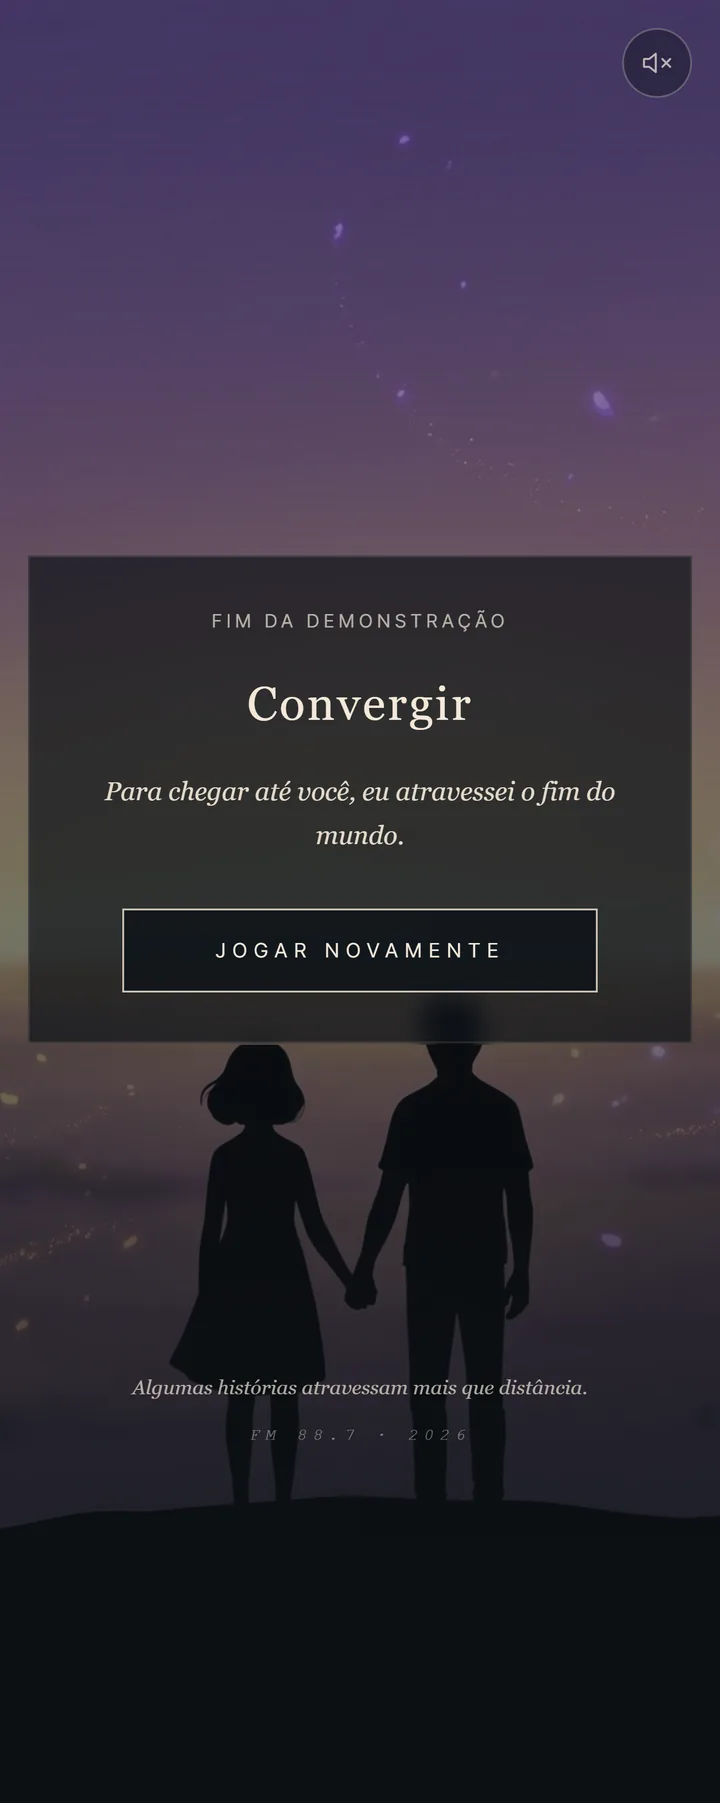
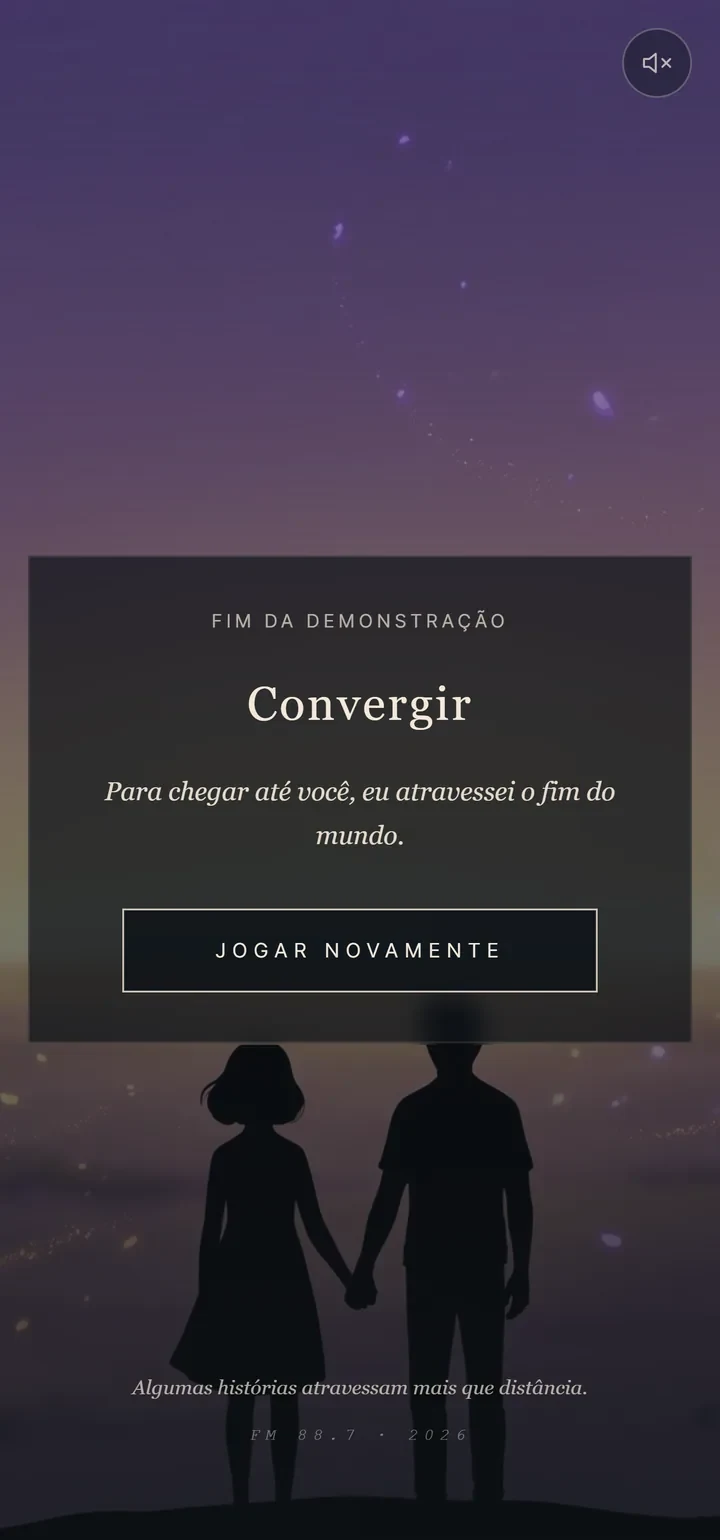
Add files via upload

diff --git a/index.html b/index.html
@@ -117,16 +117,16 @@ section{scroll-margin-top:64px;padding:6rem 3rem;border-bottom:1px solid var(--b
 .badge-free{background:rgba(127,200,127,.1);color:#9ed99e;border:1px solid rgba(127,200,127,.25);}
 .badge-demo{background:rgba(180,140,200,.12);color:#c8a6d8;border:1px solid rgba(180,140,200,.3);}
 
-/* MOCKUP — Galaxy S25 Ultra frame, fundo transparente */
+/* MOCKUP — Galaxy S9 frame (aspect 18.5:9), fundo transparente */
 .project-mockup{display:flex;justify-content:center;align-items:center;}
 .mockup-wrap{display:flex;flex-direction:column;align-items:center;gap:1.5rem;}
 .device{
   position:relative;
   width:200px;
-  height:480px;
-  border-radius:38px;
+  height:404px;
+  border-radius:28px;
   background:linear-gradient(145deg,#1a1a1a 0%,#2a2a2a 50%,#1a1a1a 100%);
-  padding:7px;
+  padding:6px 6px;
   box-shadow:
     0 0 0 1.5px rgba(255,255,255,.08),
     inset 0 0 0 1px rgba(255,255,255,.04),
@@ -135,21 +135,10 @@ section{scroll-margin-top:64px;padding:6rem 3rem;border-bottom:1px solid var(--b
   flex-shrink:0;
 }
 .mockup-wrap:hover .device{transform:translateY(-6px);}
-/* punch-hole centralizado */
-.device::before{
-  content:'';
-  position:absolute;
-  top:11px;left:50%;transform:translateX(-50%);
-  width:8px;height:8px;
-  background:#000;
-  border-radius:50%;
-  z-index:3;
-  box-shadow:inset 0 0 0 1px rgba(255,255,255,.06);
-}
 .device-screen{
   position:relative;
   width:100%;height:100%;
-  border-radius:32px;
+  border-radius:22px;
   overflow:hidden;
   background:#0a0a08;
 }
@@ -302,7 +291,7 @@ img,video{max-width:100%;height:auto;}
   .project-tags .tag{flex-shrink:0;}
   /* Mockup centraliza e respeita largura do viewport */
   .project-mockup{width:100%;}
-  .device{width:min(200px,calc(100vw - 6rem));height:auto;aspect-ratio:200/480;}
+  .device{width:min(200px,calc(100vw - 6rem));height:auto;aspect-ratio:200/404;}
   .numbers-strip{grid-template-columns:repeat(2,1fr);}
   .number-card{padding:1.75rem 1rem;}
   .number-value{font-size:clamp(2rem,7vw,2.6rem);}
